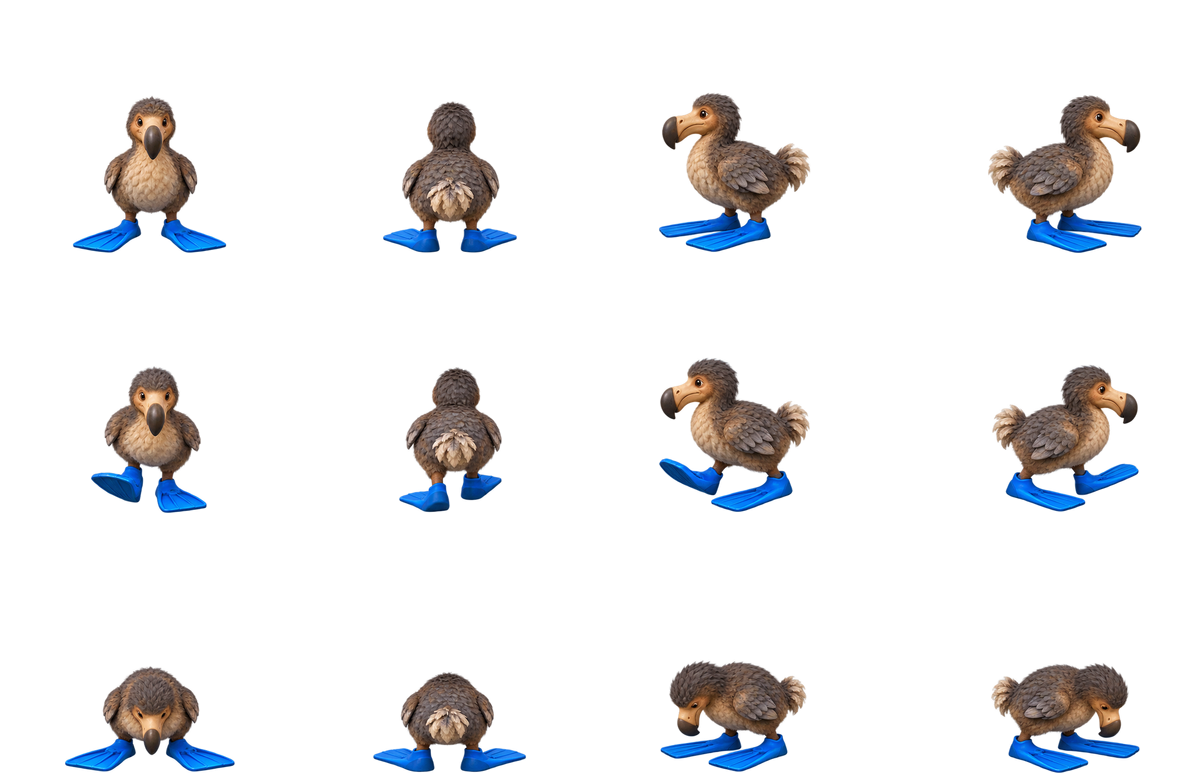
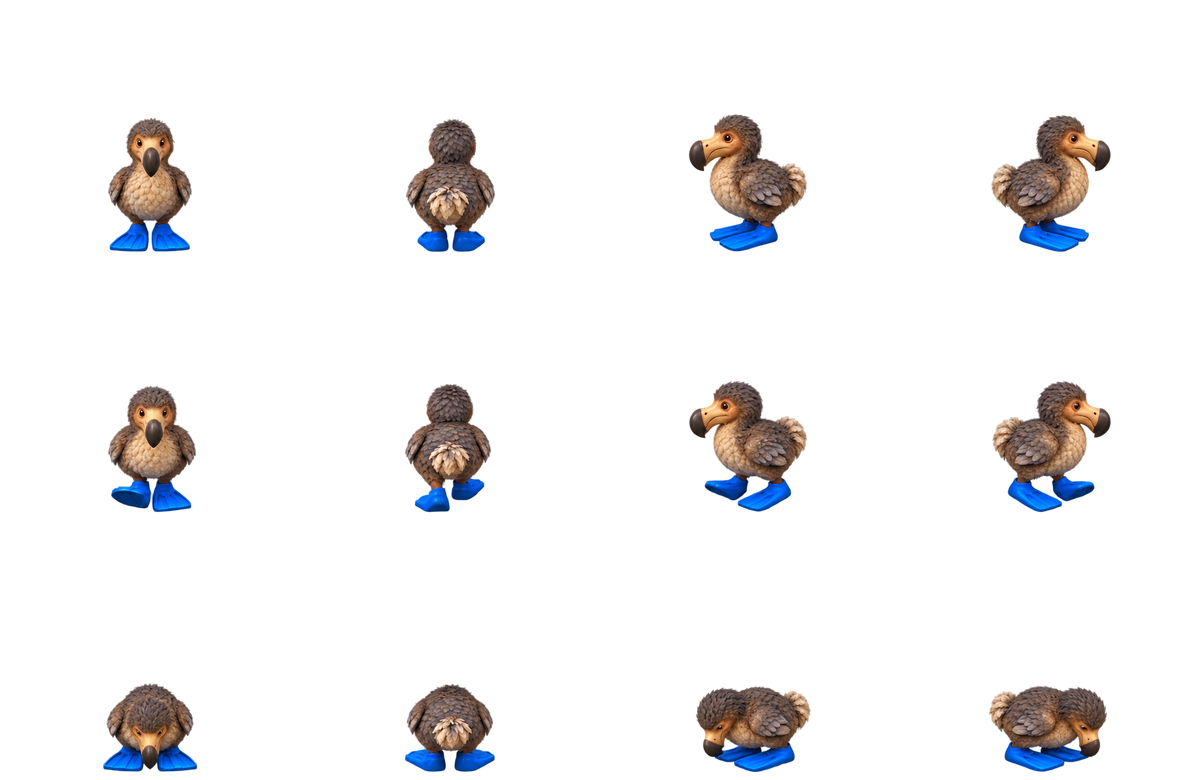
v437
- Undo / Restart: now 94×94 square buttons. Same width as before, with the height increased to match.
- Collapsed utility panel: now leaves a 15px strip of the panel itself visible, in addition to the gripper tab.
- Undo / Restart movement: their collapsed position accounts for that visible strip, so they stay properly aligned as the tray slides.
- Daily archive: added the user’s live streak flame and count immediately to the right of “DAILY PUZZLES”.
- Replaced six Partygoer sprite sheets with the exact supplied files:
  - Sandra — Astronaut
  - Mr PjkuËylasg — Bubble
  - Elrick — Dodo
  - Blaze — Glowing Entity
  - Frederick — Snail
  - Quock — Duck
- All six supplied sheets were verified as 1200×780 RGBA and copied byte-for-byte.
- Version/cache updated to v437.
- JavaScript syntax, HTML IDs, CSS parsing, layout assertions and ZIP contents were checked.
- 10 changed files.
BOXXY-v437-CHANGED-FILES.zip

diff --git a/styles.css b/styles.css
@@ -1,4 +1,4 @@
-/* BOXXY v435 — paired desktop utility tray layout with standard line weight and message-bar gradient. */
+/* BOXXY v437 — square desktop actions, visible collapsed tray edge and Daily archive streak badge. */
 /* BOXXY v412 — cached/paged Daily leaderboard controls and 30-score pagination. */
 /* BOXXY v411 — restores established Character Style name typography and prevents arbitrary mid-word wrapping. */
 /* BOXXY v325 — board-style default choices sit in a dedicated aligned column; palette wrapping no longer breaks row continuity. */
@@ -5266,6 +5266,8 @@ body.first-person-mode .board::after{
   line-height:.84;
   letter-spacing:-.055em;
 }
+.daily-archive-title-row{display:flex;align-items:center;gap:15px;min-width:0}
+.daily-archive-streak-badge{--daily-streak-badge-size:56px;flex:0 0 auto;margin-top:3px;pointer-events:none}
 .daily-archive-head p{
   max-width:680px;
   margin:10px 0 0;
@@ -5476,6 +5478,8 @@ body.first-person-mode .board::after{
   .daily-archive-card{width:100%;max-height:calc(100dvh - 16px);box-shadow:7px 7px 0 rgba(47,143,91,.72)}
   .daily-archive-head{padding:16px 15px 13px}
   .daily-archive-head h2{font-size:clamp(34px,12vw,51px)}
+  .daily-archive-title-row{gap:9px}
+  .daily-archive-streak-badge{--daily-streak-badge-size:43px;margin-top:1px}
   .daily-archive-head p{font-size:10px}
   .daily-archive-close{width:38px;height:38px;flex-basis:38px;font-size:26px}
   .daily-archive-summary-row{display:block;padding:10px 15px}
@@ -5489,6 +5493,7 @@ body.first-person-mode .board::after{
   .daily-archive-card{max-height:calc(100dvh - 12px)}
   .daily-archive-head{padding:10px 16px 9px}
   .daily-archive-head h2{font-size:35px}
+  .daily-archive-streak-badge{--daily-streak-badge-size:38px}
   .daily-archive-head p{margin-top:5px;font-size:9px}
   .daily-archive-summary-row{padding:7px 16px}
   .daily-archive-months{padding:11px 16px 16px}
@@ -5589,6 +5594,7 @@ body.first-person-mode .board::after{
 .daily-archive-card{width:min(1220px,calc(100vw - 24px));max-height:min(94dvh,940px)}
 .daily-archive-head{padding:14px 18px 12px}
 .daily-archive-head h2{font-size:clamp(34px,4.4vw,52px)}
+.daily-archive-streak-badge{--daily-streak-badge-size:48px}
 .daily-archive-head p{margin-top:6px;font-size:10px}
 .daily-archive-summary-row{padding:8px 18px}
 .daily-archive-countdown strong{font-size:18px}
@@ -5633,6 +5639,8 @@ body.first-person-mode .board::after{
   .daily-archive-card{max-height:calc(100dvh - 10px);box-shadow:4px 4px 0 rgba(47,143,91,.72)}
   .daily-archive-head{padding:10px 10px 8px}
   .daily-archive-head h2{font-size:31px}
+  .daily-archive-title-row{gap:8px}
+  .daily-archive-streak-badge{--daily-streak-badge-size:38px;margin-top:0}
   .daily-archive-head p{display:none}
   .daily-archive-close{width:32px;height:32px;flex-basis:32px;font-size:23px}
   .daily-archive-summary-row{padding:7px 10px}
@@ -8161,6 +8169,7 @@ html.touch-ui .dpad button {
     --desktop-palette-height:20px;
     --desktop-side-head-width:clamp(320px,24vw,380px);
     --desktop-utility-expanded:150px;
+    --desktop-utility-collapsed-peek:15px;
     --desktop-utility-edge-gap:7px;
   }
 
@@ -8428,8 +8437,8 @@ html.touch-ui .dpad button {
   html:not(.touch-ui) .desktop-daily-streak-icon[data-qualified-today="false"] em{opacity:.72}
   html:not(.touch-ui) .desktop-daily-streak-icon[data-tier="zero"] em{color:#176e24;text-shadow:-1px 0 0 rgba(255,255,255,.92),1px 0 0 rgba(255,255,255,.92),0 -1px 0 rgba(255,255,255,.92),0 1px 0 rgba(255,255,255,.92)}
 
-  /* Collapse slides the entire tray off the right edge. Only the central grip remains visible. */
-  html:not(.touch-ui) body.desktop-utility-collapsed .desktop-utility-tray{transform:translateX(100%)}
+  /* Collapse leaves one grip-width of the tray itself visible, plus the grip tab. */
+  html:not(.touch-ui) body.desktop-utility-collapsed .desktop-utility-tray{transform:translateX(calc(100% - var(--desktop-utility-collapsed-peek)))}
   html:not(.touch-ui) body.desktop-utility-collapsed .desktop-utility-tray>.top-actions,
   html:not(.touch-ui) body.desktop-utility-collapsed .desktop-utility-tray>.move-zone,
   html:not(.touch-ui) body.desktop-utility-collapsed .desktop-utility-tray>.bottom-actions,
@@ -8472,7 +8481,7 @@ html.touch-ui .dpad button {
   html:not(.touch-ui) .desktop-board-action{
     width:94px;
     min-width:94px;
-    height:68px;
+    height:94px;
     padding:6px 10px;
     border:1px solid var(--line);
     border-radius:10px;
@@ -8494,7 +8503,7 @@ html.touch-ui .dpad button {
   html:not(.touch-ui) .desktop-board-action:hover{transform:translateY(-1px)}
   html:not(.touch-ui) .desktop-board-action:active{transform:translateY(1px)}
   html:not(.touch-ui) .desktop-board-action:disabled{opacity:.45;cursor:default;transform:none}
-  html:not(.touch-ui) body.desktop-utility-collapsed .desktop-board-actions{right:18px}
+  html:not(.touch-ui) body.desktop-utility-collapsed .desktop-board-actions{right:calc(var(--desktop-utility-collapsed-peek) + 18px)}
 
   @media (prefers-reduced-motion:reduce){
     html:not(.touch-ui) .desktop-utility-tray,

diff --git a/boxxy.js b/boxxy.js
@@ -16,7 +16,7 @@
 /* BOXXY v410: character-family tabs browse without changing the selected character; six Partygoers added and profile/style controls refined. */
 /* BOXXY v409: restore v396 leaderboard typography/alignment while adding centred clickable avatars only to the full leaderboard. */
 /* BOXXY v407: keep profile bio editing geometrically stable and give full leaderboard avatars dedicated row space. */
-/* BOXXY v436: larger sliding desktop Undo/Restart stack, larger utility grip, and live Daily/Profile/Trophy rail icons. */
+/* BOXXY v437: square desktop Undo/Restart controls, visible collapsed tray edge, Daily archive streak badge, and refreshed Partygoer sprites. */
 /* BOXXY v434: desktop utility tray overlays the map, defaults open each load and adds audio/profile/history/trophy/Daily tools. */
 /* BOXXY v429: desktop-only collapsible utility rail, floating Undo/Restart and board colours in Style. */
 /* BOXXY v428: permanent Daily fastest-time gold medals appear in the header, trophy cabinet and public profiles. */
@@ -31,7 +31,7 @@
 /* Single source of truth for the public release information.
    Update only this object when a new BOXXY version is published. */
 window.BOXXY_RELEASE = Object.freeze({
-  version: "436",
+  version: "437",
   lastUpdated: "2026-10-02"
 });
 /* BOXXY v402: Daily leaderboards display each signed-in player’s current cloud-synced avatar beside their username. */
@@ -2835,6 +2835,8 @@ window.BOXXY_RELEASE = Object.freeze({
   const dailyInviteStatus = document.getElementById("dailyInviteStatus");
   const dailyArchiveModal = document.getElementById("dailyArchiveModal");
   const dailyArchiveCloseBtn = document.getElementById("dailyArchiveCloseBtn");
+  const dailyArchiveStreak = document.getElementById("dailyArchiveStreak");
+  const dailyArchiveStreakNumber = document.getElementById("dailyArchiveStreakNumber");
   const dailyArchiveMonths = document.getElementById("dailyArchiveMonths");
   const dailyArchiveSummary = document.getElementById("dailyArchiveSummary");
   const dailyArchiveCountdownLabel = document.getElementById("dailyArchiveCountdownLabel");
@@ -3831,6 +3833,12 @@ window.BOXXY_RELEASE = Object.freeze({
       desktopDailyStreak.dataset.qualifiedToday = qualifiedToday ? "true" : "false";
     }
     if (desktopDailyStreakNumber) desktopDailyStreakNumber.textContent = String(streak);
+    if (dailyArchiveStreak) {
+      dailyArchiveStreak.dataset.tier = tier;
+      dailyArchiveStreak.dataset.digits = digits;
+      dailyArchiveStreak.dataset.qualifiedToday = qualifiedToday ? "true" : "false";
+    }
+    if (dailyArchiveStreakNumber) dailyArchiveStreakNumber.textContent = String(streak);
     const streakLabel = `Daily Boxxy streak: ${streak} ${streak === 1 ? "day" : "days"}`;
     const todayLabel = todayPuzzle
       ? (qualifiedToday ? "Today’s Daily is complete." : "Today’s Daily is not yet complete.")
@@ -3838,6 +3846,10 @@ window.BOXXY_RELEASE = Object.freeze({
     const label = `${streakLabel}. ${todayLabel}`;
     dailyStreak.setAttribute("aria-label", label);
     dailyStreak.title = label;
+    if (dailyArchiveStreak) {
+      dailyArchiveStreak.setAttribute("aria-label", label);
+      dailyArchiveStreak.title = label;
+    }
   }
 
   function dailyAvailabilityLabel(puzzle = dailyPuzzleForToday()) {

diff --git a/index.html b/index.html
@@ -161,7 +161,7 @@
     document.documentElement.classList.add("ios-standalone");
   }
 </script>
-<link rel="stylesheet" href="styles.css?v=436">
+<link rel="stylesheet" href="styles.css?v=437">
 <link rel="stylesheet" href="how-to-play.css?v=225">
 <link rel="preload" as="image" href="assets/board/boxes/box-default-yellow.png?v=226">
 <link rel="preload" as="image" href="assets/board/goals/goal-red.png?v=226">
@@ -741,7 +741,13 @@
     <header class="daily-archive-head">
       <div>
         <span class="complete-kicker">BOXXY DAILYS</span>
-        <h2 id="dailyArchiveTitle">DAILY PUZZLES</h2>
+        <div class="daily-archive-title-row">
+          <h2 id="dailyArchiveTitle">DAILY PUZZLES</h2>
+          <div id="dailyArchiveStreak" class="daily-streak-badge daily-archive-streak-badge" data-tier="zero" data-digits="1" data-qualified-today="false" role="img" aria-label="Daily Boxxy streak: 0 days" title="Daily Boxxy streak: 0 days">
+            <span class="daily-streak-flame" aria-hidden="true"></span>
+            <span id="dailyArchiveStreakNumber" class="daily-streak-number" aria-hidden="true">0</span>
+          </div>
+        </div>
       </div>
       <button id="dailyArchiveCloseBtn" class="daily-archive-close" type="button" aria-label="Close Daily Puzzles">×</button>
     </header>
@@ -1577,7 +1583,7 @@
 <script src="daily-puzzles/boxxy-daily-loader.js?v=357"></script>
 <script src="levels.js?v=372"></script>
 <script src="starry-night.js?v=302"></script>
-<script src="boxxy.js?v=436"></script>
+<script src="boxxy.js?v=437"></script>
 <script src="attempt-history.js?v=428"></script>
 <script src="attempt-history-ui.js?v=428"></script>
 <script src="account.js?v=428"></script>

diff --git a/service-worker.js b/service-worker.js
@@ -1,4 +1,4 @@
-/* BOXXY v436: larger sliding desktop actions, larger grip and live utility icons. */
+/* BOXXY v437: square desktop actions, collapsed tray peek, Daily archive streak badge and refreshed Partygoer sprites. */
 /* BOXXY v429: desktop utility rail and Style board-colour controls. */
 /* BOXXY v428: Daily fastest-time gold-medal client/history assets. */
 /* BOXXY v427: PARTYGOERS visibility is secret-sequence only. */
@@ -40,7 +40,7 @@
 "use strict";
 
 const CACHE_NAME = "boxxy-offline-v2";
-const RELEASE_VERSION = "436";
+const RELEASE_VERSION = "437";
 const META_URL = "/__boxxy_offline_meta__";
 const OFFLINE_ENTRY = "/index.html";
 const ASSETS = [
